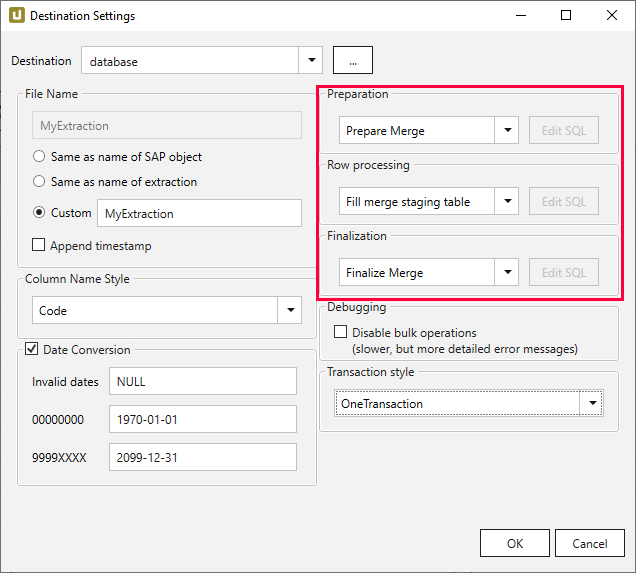
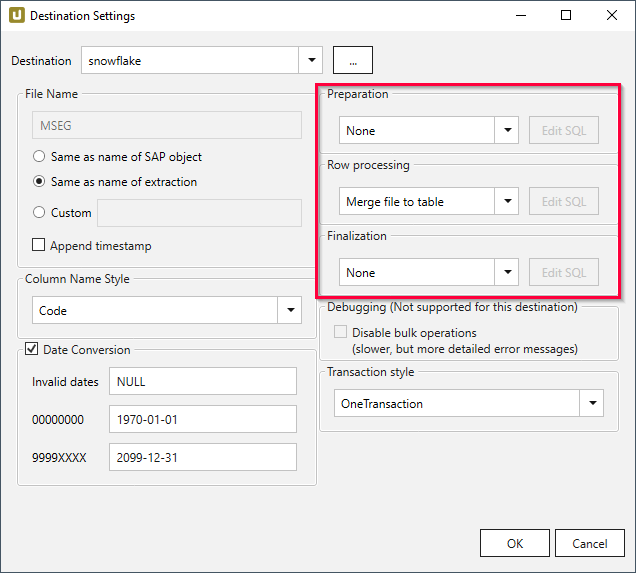
XU: snowflake data merge revised

diff --git a/_includes/_tech/side-menu-current-product.html b/_includes/_tech/side-menu-current-product.html
@@ -37,7 +37,7 @@
 
     {% when 'yunio' %}
     <img src="/img/products/TS_Icon_2C_YunIO.svg" class="img-fluid side-menu-product-image" alt="yunIO">
-    <p class="side-menu-product-text">yunio</p>
+    <p class="side-menu-product-text">yunIO</p>
 	
 	{% when 'ecs-core' %}
     <img src="/img/products/TS_Icon_2C_ECSCore.svg" class="img-fluid side-menu-product-image" alt="ECS Core">

diff --git a/content/_de/xtract-universal/destinationen/snowflake.md b/content/_de/xtract-universal/destinationen/snowflake.md
@@ -121,6 +121,10 @@ Aktion auf der Zieldatenbank, nachdem die Daten in die Zieltabelle erfolgreich e
 - *None*: keine Aktion (Default).
 - *Custom SQL*: Hier können Sie eigenes Skript definieren. Siehe den unteren Abschnitt Custom SQL. 
 
+#### Über Merging
+Die Zusammenführung gewährleistet eine Deltaverarbeitung: neue Datensätze werden in die Datenbank eingefügt und/oder bestehende Datensätze werden aktualisiert. 
+Mehr Details im Abschnitt [Daten zusammenführen (mergen)](#daten-mergen).
+
 ### Custom SQL 
 
 Die Option Custom SQL ermöglicht die Erstellung benutzerdefinierter SQL-Anweisungen. Vorhandene SQL-Befehle können 
@@ -147,7 +151,7 @@ Sie können eigene SQL-Ausdrücke schreiben und haben damit die Möglichkeit, da
 Darüber hinaus können Sie z.B. auch auf der Datenbank bestehende "Stored Procedures" ausführen.
 Dafür können Sie die vordefinierten SQL-Vorlagen der folgenden Phasen verwenden:
 - *Preparation (z.B. Drop & Create oder Create if Not Exists)* 
-- *Row Processing (z.B. Insert oder Merge)* und 
+- *Row Processing (z.B. Merge)* und 
 - *Finalization*
 
 {:.box-note}
@@ -182,8 +186,52 @@ Sie können [Skript-Ausdrücke](https://help.theobald-software.com/de/xtract-uni
 
 {% include _content/de/xu-specific/destinationen/general/transaction-style.md %}
 
-## Custom SQL
 
+
+## Daten Mergen
+
+Das folgende Beispiel zeigt die Aktualisierung der vorhandenen Datensätze in einer 
+Datenbank durch Ausführen einer Extraktion. Dabei geht es um Zusammenzuführen (Merge) der Daten, d.h. z.B. den Wert eines Feldes zu ändern oder eine neue Datenzeile einzufügen oder eine vorhandene zu aktualisieren. 
+
+Alternativ zum Zusammenführen (Merge) können die Datensätze durch einen "Full Load" aktualisiert werden. Das Full-Load-Verfahren ist weniger effizient und performant.
+
+Voraussetzung für das Zusammenführen (Merge) ist eine Tabelle mit vorhandenen Daten, in welche neue Daten zusammengeführt werden sollen.
+
+Im Idealfall wird die Tabelle mit den vorhandenen Daten im initialen Lauf erstellt und mit der Option *Merge file to table* in **Row Processing** befüllt.
+
+
+{:.box-warning}
+**Warnung! Fehlerhaftes Zusammenführen** <br>
+Ein Primärschlüssel ist eine Voraussetzung für einen Merge-Befehl. Wenn kein Primärschlüssel gesetzt ist, läuft der Zusammenführungsbefehl in einen Fehler.
+Erstellen Sie einen entsprechenden Primärschlüssel in [General Settings](../erste-schritte/allgemeine-einstellungen#primary-key-tab), um den Merge-Befehl ausführen zu können.
+
+
+### Aktualisierter Datensatz in SAP
+Ein Feldwert innerhalb einer SAP-Tabelle wird aktualisiert. Mit einem Merge-Befehl wird der aktualisierte Wert in die Zieldatenbanktabelle geschrieben. 
+![Update-Merge-Example-Data](/img/content/xu/merge_db_scheme.png){:class="img-responsive"}
+
+Der Merge-Befehl gewährleistet eine Deltaverarbeitung: neue Datensätze werden in die Datenbank eingefügt und/oder bestehende Datensätze aktualisiert. <br>
+
+
+### Merge-Befehl in Xtract Universal
+Der Merge-Prozess wird mit Hilfe einer Staging-Tabelle durchgeführt und erfolgt in drei Schritten.
+Im ersten Schritt wird eine temporäre Tabelle angelegt, in die die Daten im zweiten Schritt eingefügt werden.
+Im dritten Schritt wird die temporäre Tabelle mit der Zieltabelle zusammengeführt und anschließend wird die temporäre Tabelle gelöscht.
+
+1. Wählen Sie im Hauptfenster des Designers die entsprechende Extraktion aus und klicken Sie auf **[Destination]**. Das Fenster "Destination Settings" wird geöffnet.
+2. Stellen Sie sicher, dass Sie die passende Destination wählen: eine Datenbankdestination.
+3. Navigieren Sie zum rechten Teil des Fensters "Destination Settings" und wenden Sie die folgenden Einstellungen an:
+- **Preparation**: *None*
+- **Row Processing**: *Merge file to table*, um die Staging-Tabelle mit Dateien zu befüllen.
+- **Finalization**: *None*
+![Extraction-Specific-Settings-Merge-Makt](/img/content/xu/destination_data_merge.png){:class="img-responsive"}
+
+Weitere Informationen über die aktualisierten Felder finden Sie in der SQL-Anweisung ([nur Custom SQL](#custom-sql)).<br>
+Es ist möglich, die SQL-Anweisung bei Bedarf zu bearbeiten, z.B. bestimmte Spalten von der Aktualisierung auszuschließen.<br>
+Felder, die nicht in der SQL-Anweisung erscheinen, sind von den Änderungen nicht betroffen.
+
+
+## Custom SQL
 
 ### Custom SQL Statement - Benutzerdefinierte SQL-Anweisung
 

diff --git a/content/_en/xtract-universal/destinations/snowflake.md b/content/_en/xtract-universal/destinations/snowflake.md
@@ -119,6 +119,9 @@ Defines the action on the target database after the data has been successfully i
 - *None*: no action (default).
 - *Custom SQL*: Here you can define your own script. See the Custom SQL section below.
 
+#### About Merging
+Merging ensures delta processing: new records are inserted into the database and / or existing records are updated. 
+See section [Merging Data](#merging-data).
 
 ### Custom SQL
 
@@ -145,7 +148,7 @@ You can write your user-defined SQL expressions and adapt the loading of the dat
 You can additionally execute stored procedures that exist in the database.
 To do so, use the SQL templates provided in the following phases:
 - *Preparation (e.g., Drop & Create or Create if Not Exists)* 
-- *Row Processing (e.g., Insert or Merge)*  
+- *Row Processing (e.g., Merge)*  
 - *Finalization*
 
 {:.box-note}
@@ -181,6 +184,47 @@ You can use [script expressions](https://help.theobald-software.com/en/xtract-un
 
 
 {% include _content/en/xu-specific/destinations/general/transaction-style.md %}
+
+## Merging Data
+
+The following example depicts the update of the existing data records in a database by running an extraction to merge data. 
+Merging in this case stands for changing a value of a field or inserting a new data row or updating an existing record. 
+
+Alternatively to merging, the data can be also updated by means of full load. The full load method is less efficient and performant.
+
+Prerequisite for merging is a table with existing data, in which new data should be merged.
+
+Ideally, the table with existing data is created in the initial load and filled with data using the **Row Processing** option *Merge file to table*.
+
+{:.box-warning}
+**Warning! Faulty merge** <br>
+A primary key is a prerequisite for a merge command. If no primary key is set, the merge command runs into an error.
+Create an appropriate primary key in the [General Settings](./../getting-started/general-settings#primary-key-tab) to execute the merge command.
+
+
+### Updated record in SAP
+A field value within an SAP table is updated. With a merge command the updated value is written to the destination database table. 
+![Update-Merge-Example-Data](/img/content/xu/merge_db_scheme.png){:class="img-responsive"}
+
+The merge command ensures delta processing: new records are inserted into the database and / or existing records are updated. <br>
+
+
+### Merge command in Xtract Universal
+The merge process is performed using a staging table and takes place in three steps.
+In the first step, a temporary table is created in which the data is inserted in the second step.
+In the third step, the temporary table is merged with the target table and then the temporary table is deleted.
+
+1. In the main window of the Designer, select the respective extraction and click **[Destination]**. The window "Destination Settings" opens.
+2. Make sure to choose the correct destination: a database destination. 
+3. Navigate to the right part of the "Destination Settings" window and apply the following settings:
+- **Preparation**: *None*
+- **Row Processing**: *Merge file to table* to add data to the staging table.
+- **Finalization**: *None* 
+![Extraction-Specific-Settings-Merge-Makt](/img/content/xu/destination_data_merge.png){:class="img-responsive"}
+
+More information about the updated fields can be found in the SQL statement ([Custom SQL only](#custom-sql)).<br>
+It is possible to edit the SQL statement if necessary, e.g., to exclude certain columns from the update.<br>
+Fields that do not appear in the SQL statement are not affected by changes.
 
 
 ## Custom SQL
